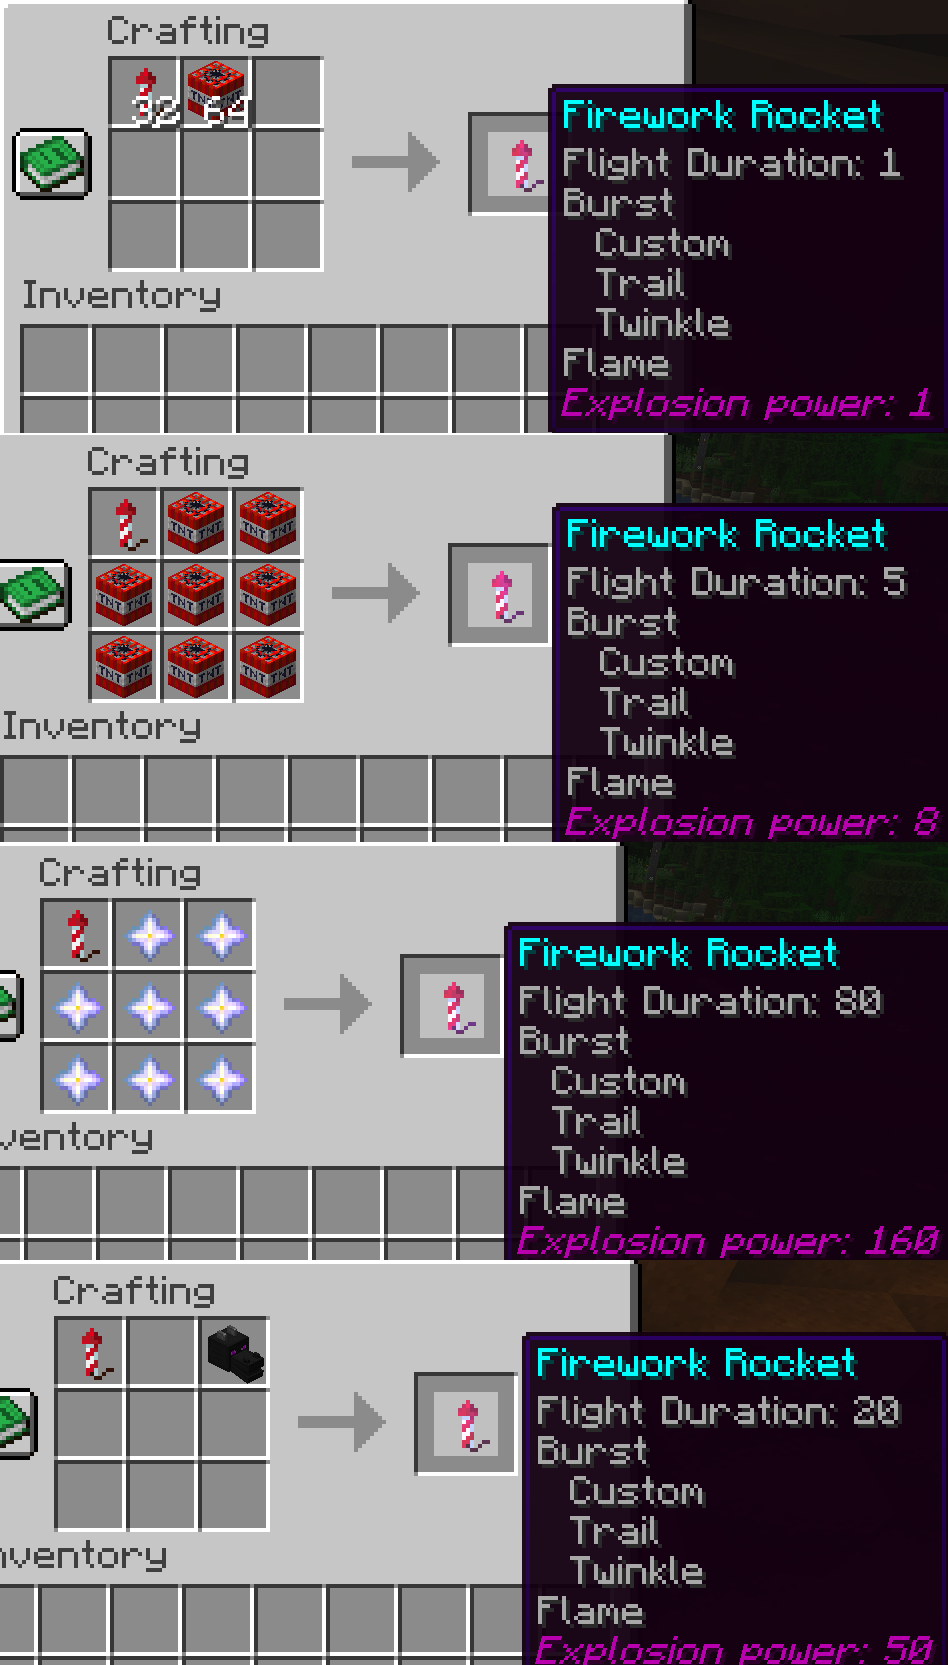
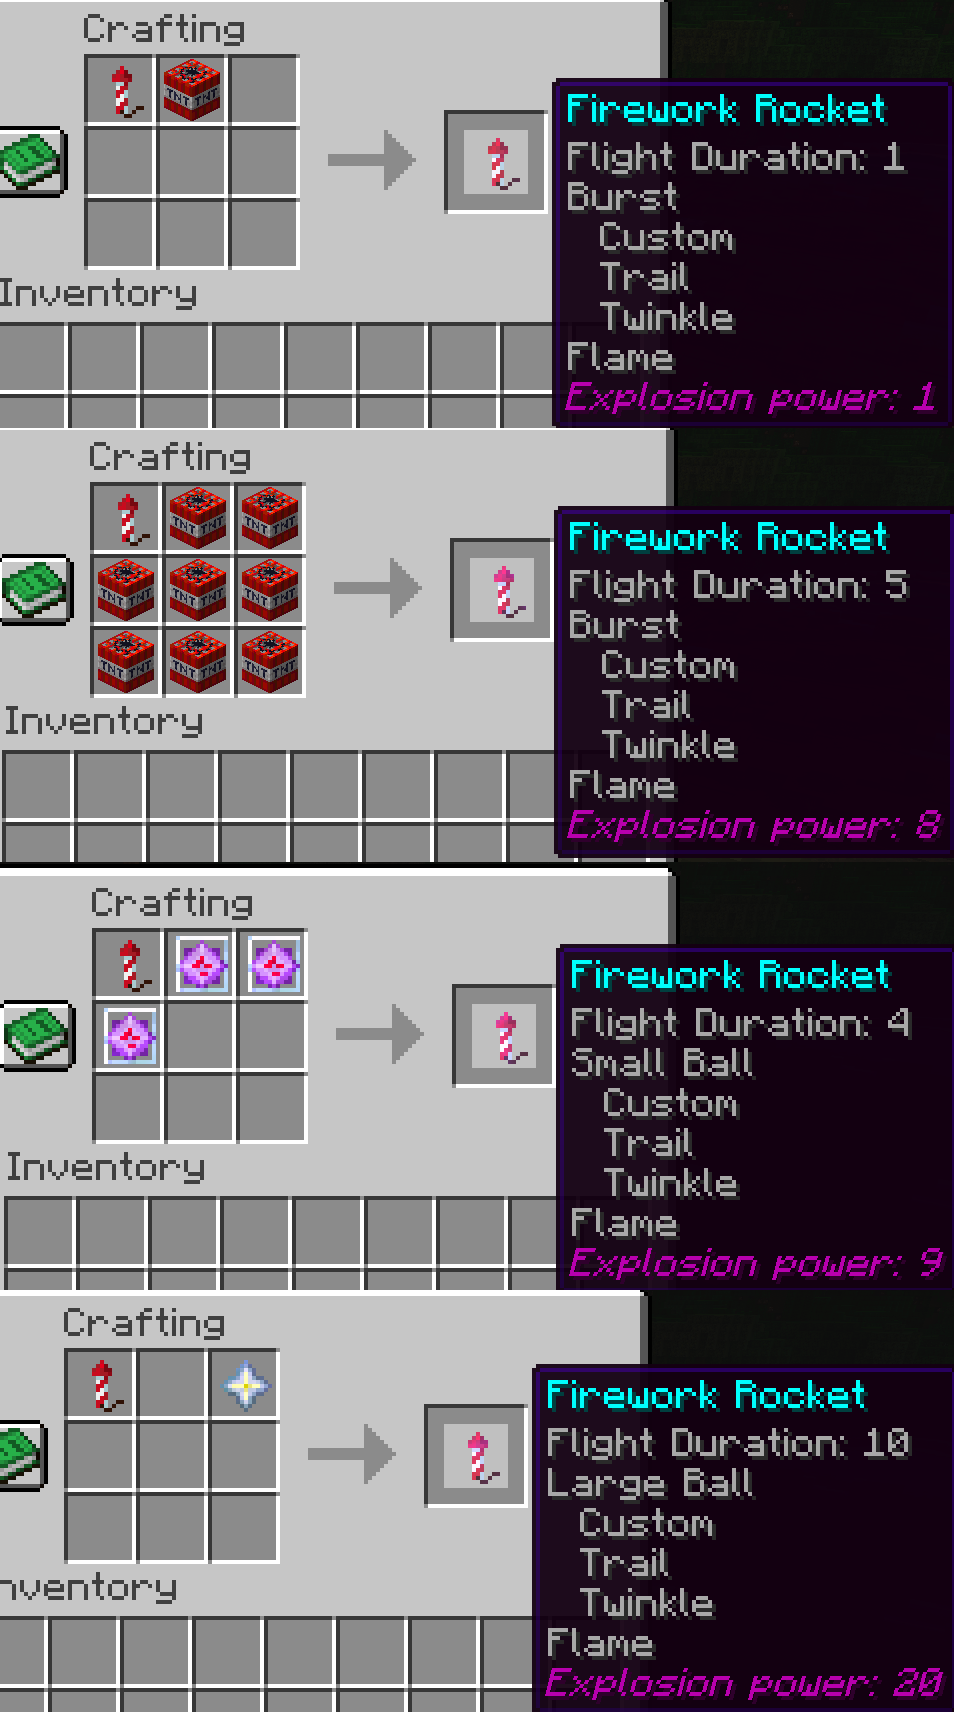
Added end crystals

diff --git a/src/main/java/com/gmail/uprial/railnet/populator/FireworkCraftBook.java b/src/main/java/com/gmail/uprial/railnet/populator/FireworkCraftBook.java
@@ -21,8 +21,15 @@ public class FireworkCraftBook {
 
     public void enable() {
         for(int i = 1; i < 9; i++) {
-            addRecipe(Material.TNT, i, 1 + i / 2, i);
-            addRecipe(Material.NETHER_STAR, i,10 * i, 20 * i);
+            // With i = 5, generates the same as MineshaftPopulator: 3 and 5
+            addRecipe(Material.TNT, i,
+                    FireworkEffect.Type.BURST,1 + i / 2, i);
+            // With i = 4, generates the same as MineshaftPopulator: 5 and 12
+            addRecipe(Material.END_CRYSTAL, i,
+                    FireworkEffect.Type.BALL, 1 + i, 3 * i);
+            // With i = 1, generates the same as MineshaftPopulator: 10 and 20
+            addRecipe(Material.NETHER_STAR, i,
+                    FireworkEffect.Type.BALL_LARGE, 10 * i, 20 * i);
         }
     }
 
@@ -35,15 +42,16 @@ public class FireworkCraftBook {
     private void addRecipe(
             final Material material,
             final int amount,
+            final FireworkEffect.Type type,
             final int fireworkPower,
             final int explosionPower) {
 
         final ItemStack result = new ItemStack(Material.FIREWORK_ROCKET);
         new ItemConfig()
-                .firework(FireworkEffect.Type.BURST, fireworkPower, explosionPower)
+                .firework(type, fireworkPower, explosionPower)
                 .apply(result);
 
-        final String key = String.format("explosive-firework-%d-%d", fireworkPower, explosionPower);
+        final String key = String.format("e-f-%s-%d-%d", type.toString().toLowerCase(), fireworkPower, explosionPower);
         final NamespacedKey namespacedKey = new NamespacedKey(plugin, key);
         final ShapelessRecipe recipe = new ShapelessRecipe(namespacedKey, result);
 

diff --git a/src/main/java/com/gmail/uprial/railnet/populator/MagicColor.java b/src/main/java/com/gmail/uprial/railnet/populator/MagicColor.java
@@ -3,16 +3,21 @@ package com.gmail.uprial.railnet.populator;
 import org.bukkit.Color;
 
 public class MagicColor {
-    private static final int MAGIC_RED = 254;
-    private static final int MAGIC_GREEN = 1;
+    private static final int BYTE_CAPACITY = Color.RED.getRed() + 1;
+
+    /*
+        Avoid any changes on the already generated map:
+        the already generated and crafted fireworks will stop working.
+     */
+    private static final int MAGIC_RED = Color.RED.getRed() - 1;
 
     public static Color encode(final int power) {
-        return Color.fromRGB(MAGIC_RED, MAGIC_GREEN, power);
+        return Color.fromRGB(MAGIC_RED, power / BYTE_CAPACITY, power % BYTE_CAPACITY);
     }
 
     public static Integer decode(final Color color) {
-        if((color.getRed() == MAGIC_RED) && (color.getGreen() == MAGIC_GREEN)) {
-            return color.getBlue();
+        if((color.getRed() == MAGIC_RED)) {
+            return color.getBlue() + color.getGreen() * BYTE_CAPACITY;
         } else {
             return null;
         }

diff --git a/src/main/java/com/gmail/uprial/railnet/populator/mineshaft/MineshaftPopulator.java b/src/main/java/com/gmail/uprial/railnet/populator/mineshaft/MineshaftPopulator.java
@@ -269,9 +269,10 @@ public class MineshaftPopulator implements ChunkPopulator {
 
             .put(Material.DIAMOND, new CLT(3.0D))
 
+            // Please, keep consistent with FireworkCraftBook
             .put(Material.FIREWORK_ROCKET, new CLT(3.0D, 2)
                     .addItemConfigOption(new ItemConfig().firework(FireworkEffect.Type.BURST, 3, 5))
-                    .addItemConfigOption(new ItemConfig().firework(FireworkEffect.Type.BALL, 5, 8))
+                    .addItemConfigOption(new ItemConfig().firework(FireworkEffect.Type.BALL, 5, 12))
                     .addItemConfigOption(new ItemConfig().firework(FireworkEffect.Type.BALL_LARGE, 10, 20))
             )
 
